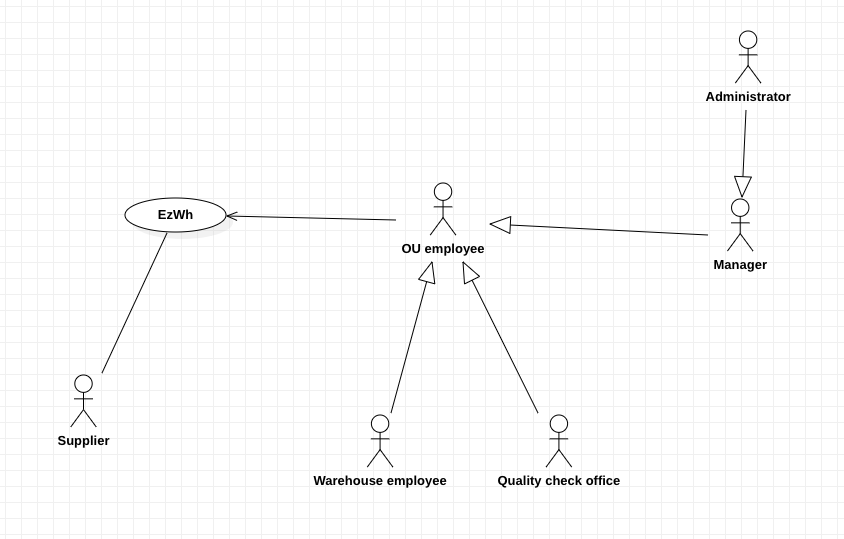
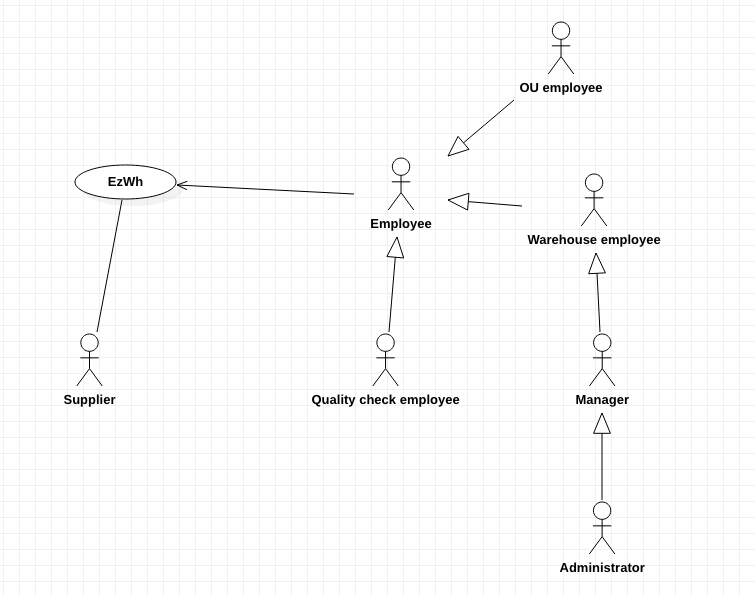
Add functional requirements, modify context diagram

diff --git a/RequirementsDocument.md b/RequirementsDocument.md
@@ -3,13 +3,14 @@
 
 Date: 22 march 2022
 
-Version: 1.1
+Version: 1.2
 
  
 | Version number | Change |
 | ----------------- |:-----------|
 | 0   | Added Stakeholders, context diagram, FR|
 | 1.1 | Fixed Stakeholders, Context Diagram, FR. Added NFR and Deployment Diagram | 
+| 1.2 | Add functional requirements, modify context diagram |
 
 
 # Contents
@@ -88,7 +89,7 @@ EZWH (EaSy WareHouse) is a software application to support the management of a w
 | Supplier 				| GUI 		| screen, keyboard |
 | Warehouse employee 	| GUI 		| screen, keyboard |
 | OU employee 			| GUI 		| screen, keyboard |
-| Quality check office 	| GUI 		| screen, keyboard |
+| Quality check employee| GUI 		| screen, keyboard |
 
 
 # Stories and personas
@@ -161,6 +162,12 @@ EZWH (EaSy WareHouse) is a software application to support the management of a w
 |  FR6.3 	| Send alert message when some items do not pass the quality check |
 |  FR6.4	| Send alert message when an order is received |
 |  FR6.5 	| Send alert message when item is in the pick up area |
+| | |
+|  FR7		| Manage quality check |
+|  FR7.1	| Select item to check from an order |
+|  FR7.2	| Show test to be done for a certain item |
+|  FR7.3	| Report test result |
+|  FR7.4	| Add test to a product |
 
 
 
